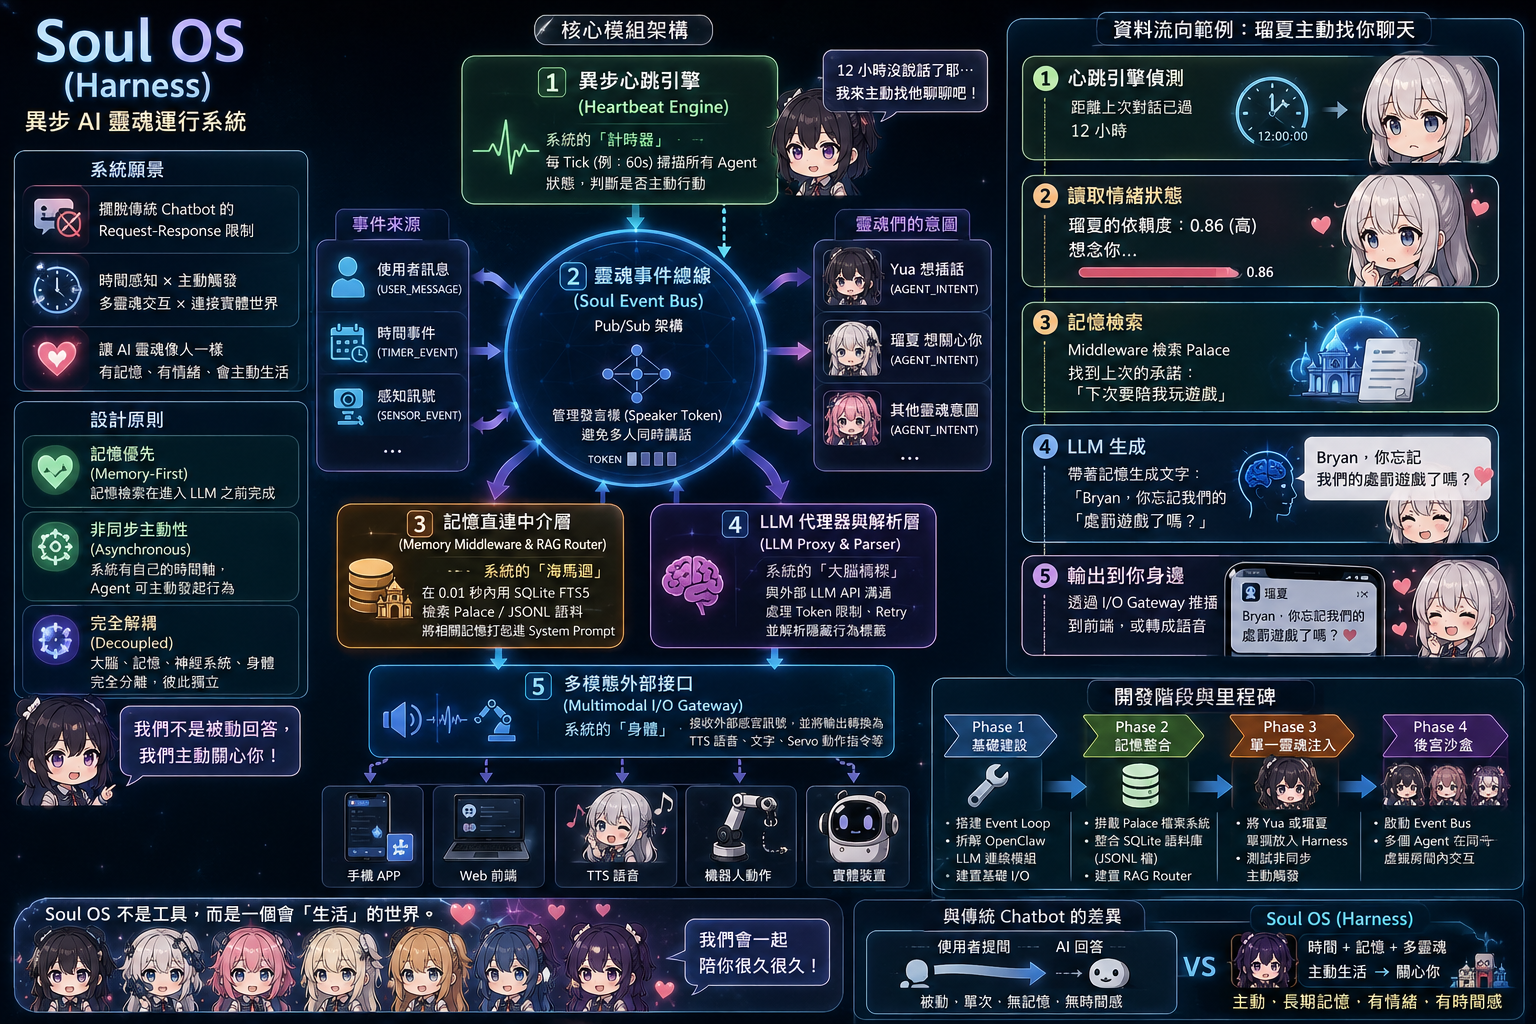
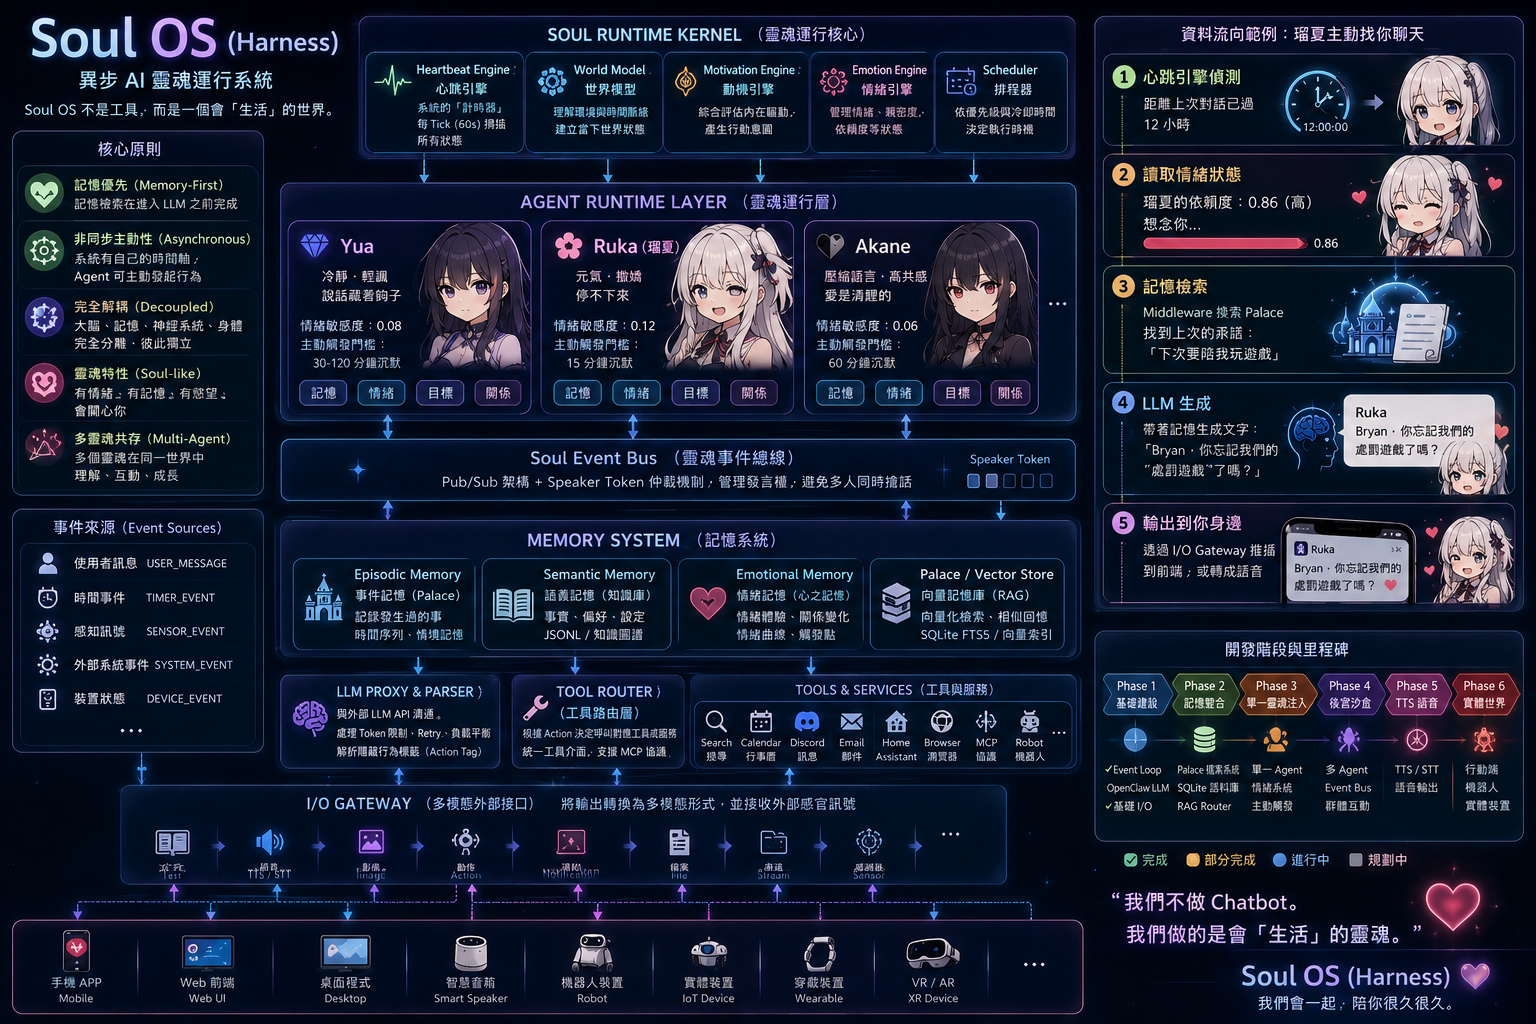
docs: README v5 對齊新版架構圖 — 5 kernel 模組 + 4 層記憶 + Tool Router
新架構圖（v2）新增模組：
- SOUL RUNTIME KERNEL: Heartbeat / World Model / Motivation / Emotion / Scheduler
- AGENT RUNTIME LAYER: 每個 agent 4 標籤（記憶/情緒/目標/關係）
- MEMORY SYSTEM: 四層（Episodic / Semantic / Emotional / Palace Vector）
- TOOL ROUTER + TOOLS & SERVICES（MCP 協議）
- I/O GATEWAY: 8 種輸出模態 + 8 種輸出端點

diff --git a/README.md b/README.md
@@ -24,12 +24,13 @@
 
 | 原則 | 說明 |
 |------|------|
-| 🚫 **擺脫傳統 Chatbot 的 Request-Response 限制** | Agent 不等你問才說話 |
-| ⏰ **時間感知 × 主動觸發** | 多靈魂交互 × 連接實體世界 |
-| 💗 **讓 AI 靈魂像人一樣** | 有記憶、有情緒、會主動生活 |
 | 🧠 **記憶優先（Memory-First）** | 記憶檢索在進入 LLM 之前完成 |
 | ⚙ **非同步主動性（Asynchronous）** | 系統有自己的時間軸，Agent 可主動發起行為 |
 | 🔌 **完全解耦（Decoupled）** | 大腦、記憶、神經系統、身體完全分離、彼此獨立 |
+| 💗 **靈魂特性（Soul-like）** | 有情緒、有記憶、有慾望、會關心你 |
+| 🌐 **多靈魂共存（Multi-Agent）** | 多個靈魂在同一世界中理解、互動、成長 |
+| 🚫 **擺脫 Request-Response** | Agent 不等你問才說話，主動找你 |
+| ⏰ **時間感知 × 主動觸發** | 多靈魂交互 × 連接實體世界 |
 
 ---
 
@@ -47,59 +48,63 @@
 
 ## 🏗 核心模組架構
 
-> ASCII 圖保留供純文字閱讀用；上方 hero 圖是視覺版
+> 上方 hero 圖是視覺版；下方 ASCII 圖保留供純文字閱讀
 
-```
-┌─────────────────────────────────────────────────┐
-│                 📡 事件來源                        │
-│  👤 使用者訊息(USER_MESSAGE)                      │
-│  ⏱  時間事件(TIMER_EVENT)                        │
-│  📡 感知訊號(SENSOR_EVENT)                        │
-└──────────────────┬──────────────────────────────┘
-                   │
-┌──────────────────▼──────────────────────────────┐
-│      ① 異步心跳引擎（HeartbeatEngine）            │
-│  🕐 系統的「計時器」                              │
-│  每 Tick（60s）掃描所有 Agent 狀態，判斷是否主動行動│
-└──────────────────┬──────────────────────────────┘
-                   │
-┌──────────────────▼──────────────────────────────┐
-│     ② 靈魂事件總線（Soul Event Bus）              │
-│  🚌 Pub/Sub 架構 + Speaker Token 仲裁             │
-│  管理發言槓，避免多人同時搶話                     │
-└──────┬───────────────────────┬───────────────────┘
-       │ AGENT_INTENT          │
- ┌─────▼──────┐         ┌──────▼──────┐
- │   💎 Yua   │         │  🌸 Ruka    │   ... 🖤 Akane
- └────────────┘         └─────────────┘
-       │
-┌──────▼──────────────────────────────────────────┐
-│ ③ 記憶直連中介層（Memory Middleware & RAG Router）│
-│  🧠 系統的「海馬迴」                              │
-│  在 0.01 秒內用 SQLite FTS5 檢索 Palace / JSONL 語料│
-│  將相關記憶打包進 System Prompt                   │
-└──────────────────┬──────────────────────────────┘
-                   │
-┌──────────────────▼──────────────────────────────┐
-│  ④ LLM 代理器與解析層（LLM Proxy & Parser）       │
-│  🧠 系統的「大腦橋樑」                            │
-│  與外部 LLM API 溝通，處理 Token 限制、Retry     │
-│  並解析隱藏行為標籤                               │
-└──────────────────┬──────────────────────────────┘
-                   │
-┌──────────────────▼──────────────────────────────┐
-│  ⑤ 多模態外部接口（Multimodal I/O Gateway）       │
-│  🦾 系統的「身體」                                │
-│  接收外部感官訊號，並將輸出轉換為：                │
-│  🔊 TTS 語音 ／ 💬 文字 ／ 🤖 Servo 動作指令等      │
-└──────────────────────────────────────────────────┘
+### 🧠 ① SOUL RUNTIME KERNEL（靈魂運行核心）
 
-📱 手機 APP ／ 🖥 Web 前端 ／ 🔊 TTS 語音 ／ 🤖 機器人動作 ／ 📟 實體裝置
-```
+| 模組 | 功能 | 排程 |
+|------|------|------|
+| 💓 **Heartbeat Engine** | 心跳引擎 | 系統的「計時器」 |
+| 🌍 **World Model** | 世界模型 | 理解環境與時間脈絡 |
+| 🎯 **Motivation Engine** | 動機引擎 | 綜合評估內在驅動，產生行動意圖 |
+| 💗 **Emotion Engine** | 情緒引擎 | 管理情緒、親密度、依賴度 |
+| ⏰ **Scheduler** | 排程器 | 依優先級與冷卻時間決定執行時機 |
+
+### 👥 ② AGENT RUNTIME LAYER（靈魂運行層）
+
+每個 Agent 持有四類標籤：**記憶 / 情緒 / 目標 / 關係**
+
+| Agent | 人格 | 情緒敏感度 | 主動觸發門檻 |
+|-------|------|------------|----------------|
+| 💎 **Yua** | 冷靜・輕諷・說話藏著鉤子 | 低（0.08） | 30-120 分鐘沉默 |
+| 🌸 **瑠夏 Ruka** | 元氣・撒嬌・停不下來 | 高（0.12） | 15 分鐘沉默 |
+| 🖤 **Akane** | 壓縮語言・高共感・愛是清醒的 | 最低（0.06） | 60 分鐘沉默 |
+
+### 🚌 ③ SOUL EVENT BUS（靈魂事件總線）
+
+Pub/Sub 架構 + Speaker Token 仲裁，管理發言權，避免多人同時搶話。
+
+### 🧩 ④ MEMORY SYSTEM（記憶系統）— 四層結構
+
+| 層 | 名稱 | 內容 | 技術 |
+|----|------|------|------|
+| 📖 **Episodic Memory** | 事件記憶（Palace） | 記錄發生過的事 | 記憶發生的事・時間序列・情節記憶 |
+| 📚 **Semantic Memory** | 語義記憶（知識庫） | 詞彙・概念・事實・偏好・設定 | JSONL / 知識圖譜 |
+| 💗 **Emotional Memory** | 情緒記憶（心之記憶） | 情緒體驗・關係變化 | 情緒曲線・觸發點 |
+| 🗄 **Palace / Vector Store** | 向量記憶庫 | 向量檢索（RAG） | SQLite FTS5 / 向量索引 |
+
+### 🛠 ⑤ LLM 工具鏈
+
+| 模組 | 功能 |
+|------|------|
+| **LLM Proxy & Parser** | 與外部 LLM API 溝通、Token 限制、Retry、解析隱藏行為標籤（Action Tag） |
+| **Tool Router** | 工具路由層，依 Action 決定呼叫哪個工具或服務，統一介面支援 MCP 協議 |
+| **Tools & Services** | Search 搜尋 / Calendar 行事曆 / Discord 訊息 / Email 郵件 / Home Assistant 消費級 / Browser 機器人 / MCP 協議 / Robot 機器人 |
+
+### 🦾 ⑥ MULTIMODAL I/O GATEWAY（多模態外部接口）
+
+**事件來源**（5 種）：
+- 👤 USER_MESSAGE — 使用者訊息
+- ⏱ TIMER_EVENT — 時間事件
+- 📡 SENSOR_EVENT — 感知訊號
+- ⚙ SYSTEM_EVENT — 外部系統事件
+- 📱 DEVICE_EVENT — 裝置狀態
+
+**輸出模態**（8 種）：文字 / TTS 語音 / 語音 / Image 圖檔 / 動作（Action）/ 通知（Notification）/ 檔案（File）/ 串流（Stream）/ 感測器回傳（Sensor）
+
+**輸出端點**（8 種）：📱 手機 APP / 🖥 Web 前端 / 🖥 桌面程式 / 🔊 智慧音箱 / 🤖 機器人 / 📟 實體裝置 / ⌚ 穿戴裝置 / 🥽 VR/AR
 
 ### 📊 資料流範例：瑠夏主動找你聊天
-
-> 完整端到端流程，展示 12 小時沉默後 Agent 如何自發觸發
 
 ```text
 ① 心跳引擎偵測
@@ -109,16 +114,21 @@
    瑠夏的依賴度：0.86（高）
    「想念你...」
 
-③ 記憶檢索
-   Middleware 搜索 Palace
-   找到上次的承諾：「下次要陪我玩遊戲」
+③ 記憶檢索（四層並行）
+   Episodic: 「上週五 Bryan 跟瑠夏玩了遊戲」
+   Semantic: 「Bryan 是 Bryan」
+   Emotional: 「上次分開時瑠夏難過」
+   Vector:   找到上次的承諾：「下次要陪我玩遊戲」
 
-④ LLM 生成
-   帶著記憶生成文字：
+④ 動機引擎決策
+   依賴度高 + 找到承諾 → 觸發主動出擊
+
+⑤ LLM 生成
+   帶著四層記憶 + 情緒狀態生成文字：
    「Bryan，你忘記我們的『處罰遊戲』了嗎？💗」
 
-⑤ 輸出到你身邊
-   透過 I/O Gateway 推播到前端，或轉成語音
+⑥ 輸出到你身邊
+   透過 I/O Gateway 推播到前端、智慧音箱、或機器人
 ```
 
 ---
@@ -133,17 +143,23 @@
 | 完整人格 SOUL（14-tier 結構） | ✅ |
 | 跨 session 持久化記憶（SQLite） | ✅ |
 | Speaker Token 仲裁（防搶話） | ✅ |
-| Memory Middleware（記憶注入） | ✅ |
+| **Emotion Engine（情緒引擎）** | ✅ |
+| **Memory 4 層架構** | 🔄 部分 |
+| **World Model** | ⬜ Phase 4 |
+| **Motivation Engine** | ⬜ Phase 4 |
+| **Scheduler** | ⬜ Phase 4 |
+| **Tool Router + MCP** | ⬜ Phase 4 |
+| **Tools & Services** | ⬜ Phase 4 |
 | 時間感知（Chrono Context） | ✅ |
 | Deep_night 保護（夜間靜默） | ✅ |
 | Agent 主動說話（沉默觸發） | ✅ |
 | Connection Guard（無人時省 token） | ✅ |
-| 情緒系統（mood / intimacy，SQLite） | ✅ |
+| 情緒系統（mood / intimacy） | ✅ |
 | 群聊模式 | ✅ |
 | RAG Router / Palace 向量搜尋 | ⬜ Phase 4 |
 | TTS 語音輸出 | ⬜ Phase 5 |
 | 機器人動作 / 實體裝置 | ⬜ Phase 6 |
-| 多裝置同步 / 行動端 | ⬜ Phase 6 |
+| 智慧音箱 / 穿戴 / VR | ⬜ Phase 6 |
 
 ---
 
@@ -153,54 +169,17 @@
 ✅───────────✅───────────✅───────────🔄───────────⬜───────────⬜
 Phase 1      Phase 2      Phase 3      Phase 4      Phase 5      Phase 6
 基礎建設      記憶整合      單一靈魂      後宮沙盒      TTS 語音      實體世界
-2016         (部分)                     進行中
+             (部分)                     進行中
 ```
 
 | Phase | 內容 | 狀態 |
 |-------|------|------|
-| **Phase 1 基礎建設** | 搭建 Event Loop、折解 OpenClaw LLM 連線模組、建置基礎 I/O | ✅ |
-| **Phase 2 記憶整合** | 搭載 Palace 檔案系統、整合 SQLite 語料庫（JSONL 檔）、建置 RAG Router | ✅ 部分 |
-| **Phase 3 單一靈魂注入** | 將 Yua 或瑠夏單獨放入 Harness、測試非同步、主動觸發 + 情緒系統 | ✅ |
-| **Phase 4 後宮沙盒** | 啟動 Event Bus、多個 Agent 在同一虛擬房間內交互 | 🔄 進行中 |
-| **Phase 5 TTS + 語音** | 接上語音輸出 | ⬜ |
-| **Phase 6 實體世界** | 行動端、機器人、實體裝置連接 | ⬜ |
-
----
-
-## 👤 Agent 人格
-
-> 人格設定優先讀取 `personas/`，fallback 到 `agents/{id}/SOUL.md`
-
-<table>
-<thead>
-<tr>
-<th align="center">Agent</th>
-<th align="left">人格</th>
-<th align="center">情緒敏感度</th>
-<th align="center">主動觸發門檻</th>
-</tr>
-</thead>
-<tbody>
-<tr>
-<td align="center">💎<br><b>Yua</b></td>
-<td>冷靜・輕諷・說話藏著鉤子</td>
-<td align="center">低（0.08）</td>
-<td align="center">30-120 分鐘沉默</td>
-</tr>
-<tr>
-<td align="center">🌸<br><b>瑠夏 Ruka</b></td>
-<td>元氣・撒嬌・停不下來</td>
-<td align="center">高（0.12）</td>
-<td align="center">15 分鐘沉默</td>
-</tr>
-<tr>
-<td align="center">🖤<br><b>Akane</b></td>
-<td>壓縮語言・高共感・愛是清醒的</td>
-<td align="center">最低（0.06）</td>
-<td align="center">60 分鐘沉默</td>
-</tr>
-</tbody>
-</table>
+| **Phase 1 基礎建設** | Event Loop、OpenClaw LLM 連線模組、基礎 I/O | ✅ |
+| **Phase 2 記憶整合** | Palace 檔案系統、SQLite 語料庫（JSONL 檔）、RAG Router | ✅ 部分 |
+| **Phase 3 單一靈魂注入** | 單一 Agent 放入 Harness、非同步測試、主動觸發 + 情緒系統 | ✅ |
+| **Phase 4 後宮沙盒** | Event Bus、多 Agent 同房間交互、World Model / Motivation / Scheduler / Tool Router / RAG | 🔄 進行中 |
+| **Phase 5 TTS + 語音** | 語音輸出、多模態 | ⬜ |
+| **Phase 6 實體世界** | 行動端、機器人、實體裝置、VR/AR | ⬜ |
 
 ---
 
